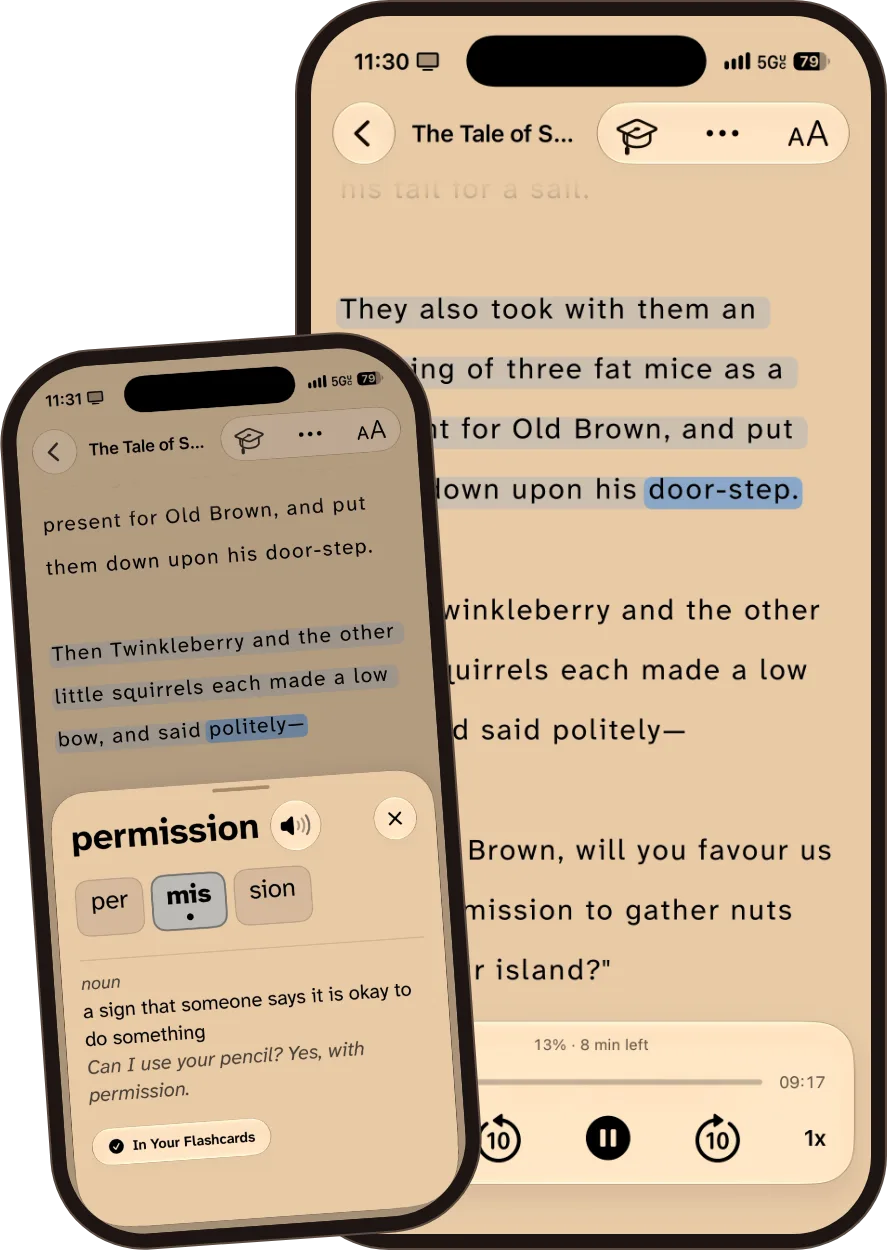
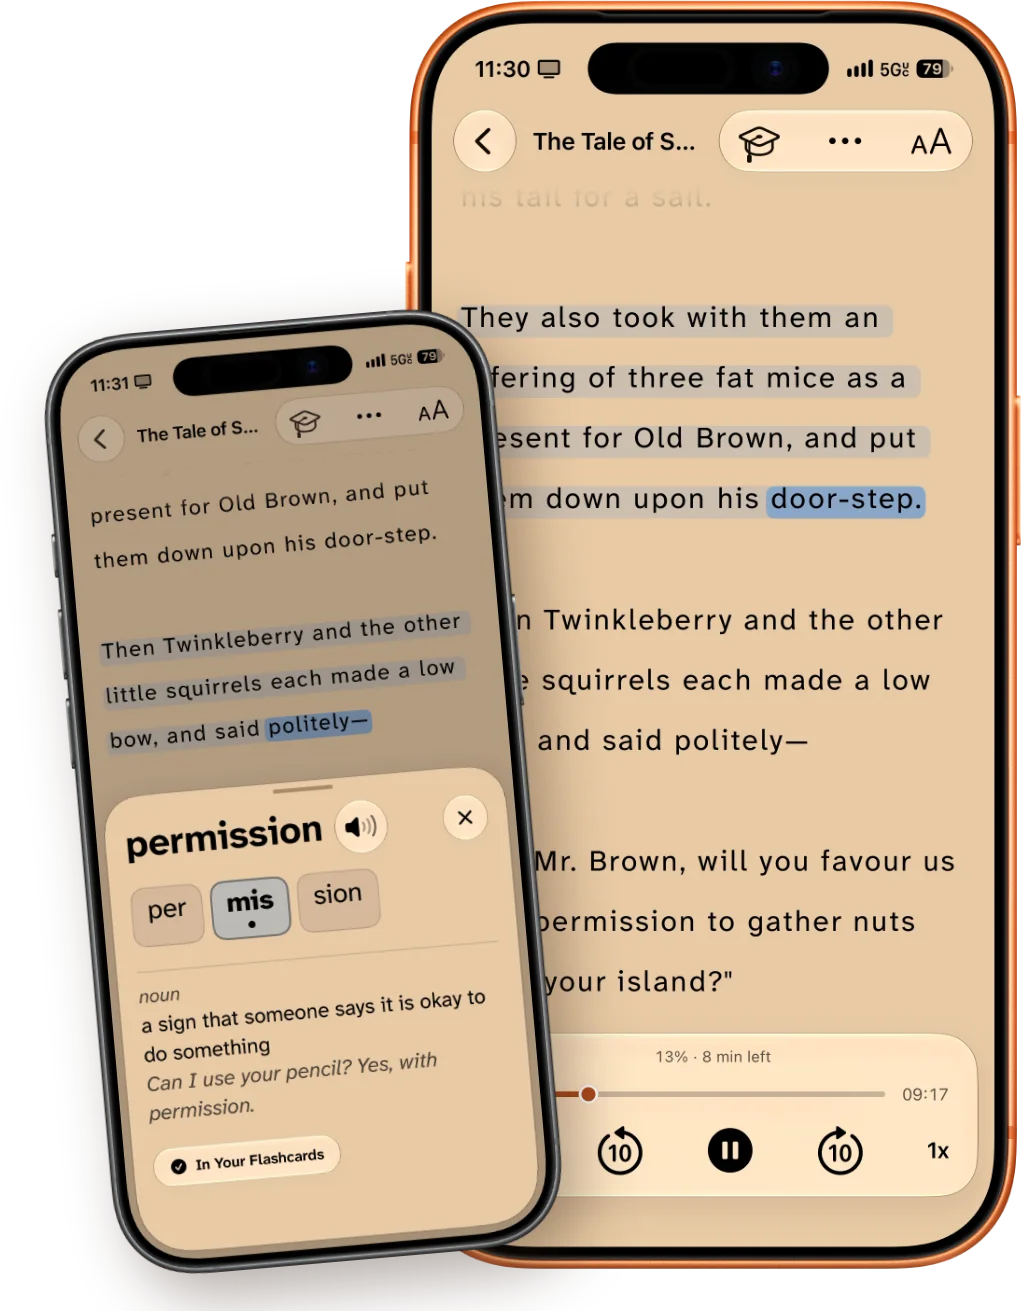
Home page: device bezels, Library block, iPad and iPhone Duo section
Claude-Session: https://claude.ai/code/session_0122TvZk13fbttGrFENv12SZ

diff --git a/index.html b/index.html
@@ -92,8 +92,8 @@
           <img
             src="assets/images/app/home-hero.webp"
             alt="DyslexiaBuddy on two iPhones. One reads a story aloud with the current word lit up. The other shows the Word Card for the word permission."
-            width="887"
-            height="1250"
+            width="1021"
+            height="1311"
             fetchpriority="high"
           />
         </figure>
@@ -126,62 +126,101 @@
           <li class="bench-step">
             <div class="bench-step__copy">
               <p class="bench-step__index">1.0</p>
-              <h3>Tap a sentence and listen from there.</h3>
-              <p>Pick a voice and a speed that suit you. The voices on your device are free, and premium adds 28 AI voices that sound closer to a person.</p>
+              <h3>Start with one of 14 free books.</h3>
+              <p>The Library has classics such as The Tale of Peter Rabbit and Treasure Island, sorted by age. You can open one before you scan anything.</p>
             </div>
             <figure class="demo-frame">
-              <video data-feature-video muted loop playsinline controls preload="metadata" poster="assets/videos/tour/listen-poster.webp" aria-label="Screen recording: DyslexiaBuddy reads a story aloud and lights up each word, then shows the voice list">
-                <source src="assets/videos/tour/listen.mp4" type="video/mp4" />
-              </video>
+              <img class="device-still" src="assets/images/devices/ph-library.webp" alt="The Library screen with free classic books sorted by age" width="675" height="1380" loading="lazy" />
             </figure>
           </li>
           <li class="bench-step">
             <div class="bench-step__copy">
               <p class="bench-step__index">2.0</p>
-              <h3>Press a hard word to hear it slowly.</h3>
-              <p>The Word Card splits the word into parts and gives a short meaning. Words you look up come back later as flashcards.</p>
+              <h3>Tap a sentence and listen from there.</h3>
+              <p>Pick a voice and a speed that suit you. The voices on your device are free, and premium adds 28 AI voices that sound closer to a person.</p>
             </div>
             <figure class="demo-frame">
-              <video data-feature-video muted loop playsinline controls preload="metadata" poster="assets/videos/tour/wordcard-poster.webp" aria-label="Screen recording: the Word Card opens for the word permission and shows its parts and meaning">
-                <source src="assets/videos/tour/wordcard.mp4" type="video/mp4" />
+              <div class="device">
+                <video data-feature-video muted loop playsinline controls preload="metadata" poster="assets/videos/tour/listen-poster.webp" aria-label="Screen recording: DyslexiaBuddy reads a story aloud and lights up each word, then shows the voice list">
+                <source src="assets/videos/tour/listen.mp4" type="video/mp4" />
               </video>
+                <img class="device__bezel" src="assets/images/devices/bezel-iphone.webp" alt="" width="675" height="1380" loading="lazy" />
+              </div>
             </figure>
           </li>
           <li class="bench-step">
             <div class="bench-step__copy">
               <p class="bench-step__index">3.0</p>
-              <h3>Ask Olly to explain a passage.</h3>
-              <p>Olly is the tutor inside the app. It answers from the page you have open, and it can sum up a long document or quiz you on it.</p>
+              <h3>Press a hard word to hear it slowly.</h3>
+              <p>The Word Card splits the word into parts and gives a short meaning. Words you look up come back later as flashcards.</p>
             </div>
             <figure class="demo-frame">
-              <video data-feature-video muted loop playsinline controls preload="metadata" poster="assets/videos/tour/tutor-poster.webp" aria-label="Screen recording: Olly the tutor writes a short summary of the story">
-                <source src="assets/videos/tour/tutor.mp4" type="video/mp4" />
+              <div class="device">
+                <video data-feature-video muted loop playsinline controls preload="metadata" poster="assets/videos/tour/wordcard-poster.webp" aria-label="Screen recording: the Word Card opens for the word permission and shows its parts and meaning">
+                <source src="assets/videos/tour/wordcard.mp4" type="video/mp4" />
               </video>
+                <img class="device__bezel" src="assets/images/devices/bezel-iphone.webp" alt="" width="675" height="1380" loading="lazy" />
+              </div>
             </figure>
           </li>
           <li class="bench-step">
             <div class="bench-step__copy">
               <p class="bench-step__index">4.0</p>
+              <h3>Ask Olly to explain a passage.</h3>
+              <p>Olly is the tutor inside the app. It answers from the page you have open, and it can sum up a long document or quiz you on it.</p>
+            </div>
+            <figure class="demo-frame">
+              <div class="device">
+                <video data-feature-video muted loop playsinline controls preload="metadata" poster="assets/videos/tour/tutor-poster.webp" aria-label="Screen recording: Olly the tutor writes a short summary of the story">
+                <source src="assets/videos/tour/tutor.mp4" type="video/mp4" />
+              </video>
+                <img class="device__bezel" src="assets/images/devices/bezel-iphone.webp" alt="" width="675" height="1380" loading="lazy" />
+              </div>
+            </figure>
+          </li>
+          <li class="bench-step">
+            <div class="bench-step__copy">
+              <p class="bench-step__index">5.0</p>
               <h3>Change the font, spacing, and colors until the page is easy on your eyes.</h3>
               <p>Atkinson Hyperlegible and OpenDyslexic are built in. A reading ruler keeps your place on one line.</p>
             </div>
             <figure class="demo-frame">
-              <video data-feature-video muted loop playsinline controls preload="metadata" poster="assets/videos/tour/customize-poster.webp" aria-label="Screen recording: the font changes to OpenDyslexic, the theme changes to yellow, and a reading ruler follows the line">
+              <div class="device">
+                <video data-feature-video muted loop playsinline controls preload="metadata" poster="assets/videos/tour/customize-poster.webp" aria-label="Screen recording: the font changes to OpenDyslexic, the theme changes to yellow, and a reading ruler follows the line">
                 <source src="assets/videos/tour/customize.mp4" type="video/mp4" />
               </video>
+                <img class="device__bezel" src="assets/images/devices/bezel-iphone.webp" alt="" width="675" height="1380" loading="lazy" />
+              </div>
             </figure>
           </li>
         </ol>
+      </section>
+
+      <section class="shell devices" id="devices" aria-labelledby="devices-title">
+        <header class="head-hang">
+          <h2 id="devices-title">Read on iPad, Mac, and iPhone Duo too.</h2>
+          <p>One App Store download covers all of them.</p>
+        </header>
+        <div class="device-grid">
+          <figure>
+            <img src="assets/images/devices/ipad.webp" alt="DyslexiaBuddy on iPad with a full page of a story" width="900" height="1173" loading="lazy" />
+            <figcaption><strong>iPad</strong> A full page fits on the screen.</figcaption>
+          </figure>
+          <figure>
+            <img src="assets/images/devices/duo.webp" alt="DyslexiaBuddy on an open iPhone Duo with the voice list over a story" width="1200" height="871" loading="lazy" />
+            <figcaption><strong>iPhone Duo</strong> Open the phone and the text spreads across the wide screen.</figcaption>
+          </figure>
+        </div>
       </section>
 
       <section class="capabilities" aria-labelledby="capabilities-title">
         <div class="shell capabilities__inner">
           <h2 id="capabilities-title">More that comes with the app</h2>
           <ul class="capability-list">
-            <li><strong>14 free books</strong><span>The Library has classics such as The Tale of Peter Rabbit and Treasure Island, sorted by age.</span></li>
             <li><strong>Highlights and notes</strong><span>Select a line, tap Highlight, and add a note in your own words.</span></li>
             <li><strong>Works without internet</strong><span>Scanning, read-aloud, and word meanings run on your device.</span></li>
             <li><strong>A daily reading reminder</strong><span>Turn it on and the app brings you back to your page.</span></li>
+            <li><strong>Your place is saved</strong><span>Each text opens where you stopped.</span></li>
           </ul>
         </div>
       </section>

diff --git a/css/landing.css b/css/landing.css
@@ -434,18 +434,81 @@ h3 {
   min-width: 0;
 }
 
-.demo-frame video {
-  width: auto;
-  height: auto;
-  max-width: min(100%, 21rem);
-  max-height: 42rem;
-  aspect-ratio: 540 / 1174;
-  border: var(--rule-hair) solid var(--color-rule-2);
-  border-radius: var(--radius-media);
-  background: var(--color-paper-3);
-  box-shadow: var(--shadow-media);
-  object-fit: contain;
+.device {
+  position: relative;
+  width: min(100%, 20rem);
+  aspect-ratio: 1350 / 2760;
+  filter: drop-shadow(0 var(--space-lg) var(--space-xl) var(--color-shadow-strong));
 }
+
+.device video {
+  position: absolute;
+  left: 5.33%;
+  top: 2.5%;
+  width: 89.34%;
+  height: 95%;
+  border-radius: 15.4% / 7.1%;
+  background: var(--color-paper-3);
+  object-fit: cover;
+}
+
+.device__bezel {
+  position: absolute;
+  inset: 0;
+  width: 100%;
+  height: 100%;
+  pointer-events: none;
+}
+
+.device-still {
+  width: min(100%, 20rem);
+  height: auto;
+  filter: drop-shadow(0 var(--space-lg) var(--space-xl) var(--color-shadow-strong));
+}
+
+.devices {
+  padding-block: var(--space-3xl) var(--space-4xl);
+}
+
+.device-grid {
+  display: grid;
+  gap: var(--space-2xl);
+  align-items: end;
+}
+
+.device-grid figure {
+  display: grid;
+  gap: var(--space-md);
+  justify-items: center;
+  min-width: 0;
+}
+
+.device-grid img {
+  width: auto;
+  max-width: 100%;
+  max-height: 30rem;
+  height: auto;
+  filter: drop-shadow(0 var(--space-lg) var(--space-xl) var(--color-shadow-strong));
+}
+
+.device-grid figcaption {
+  max-width: 34ch;
+  color: var(--color-neutral);
+  text-align: center;
+}
+
+.device-grid figcaption strong {
+  display: block;
+  color: var(--color-ink, inherit);
+  font-family: var(--font-display);
+}
+
+@media (min-width: 52rem) {
+  .device-grid {
+    grid-template-columns: minmax(0, 2fr) minmax(0, 3fr);
+  }
+}
+
 
 .capabilities {
   background: var(--color-dark-surface);
